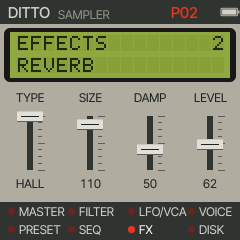
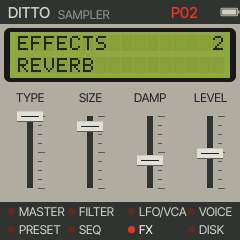
Ditto: RES for Q; the knobs move the sliders evenly (no acceleration); the value turned on the LCD, not under the sliders
Claude-Session: https://claude.ai/code/session_01TVJfaGTmFKC672U8St2zKY

diff --git a/firmware/src/golana_ui.c b/firmware/src/golana_ui.c
@@ -5,12 +5,13 @@
  * instead of ui_input, ui_leds and ui_draw; the rest of Felucca's UI code is never called).
  *
  * The screen (240 x 240): the name strip (DITTO, the preset, the battery); the LCD, 2 lines of 16 characters (the
- * module and its function, or the preset; under it what the function sets, the value just turned, or a message);
+ * module and its function, or the preset; under it the function's name, then the value of the slider turned (it stays
+ * until another function opens), or a message);
  * the four sliders (KNOB 1-4); the modules' LEDs.
  *   the modules (a button opens its first function, again the next):
- *     HOME  PERFORM      FREQ, Q, ENV, LFO RATE
+ *     HOME  PERFORM      FREQ, RES, ENV, LFO RATE
  *     GLO   MASTER       1 TEMPO/TUNE, 2 ASSIGN, 3 OUTPUT
- *     SCL   FILTER       1 FREQ Q ENV, 2 LFO KBD, 3 ADSR
+ *     SCL   FILTER       1 FREQ RES ENV, 2 LFO KBD, 3 ADSR
  *     ENV   LFO/VCA      1 VCA ADSR, 2 LFO, 3 LFO SYNC (LFO: straight to 2 LFO)
  *     EDIT  VOICE DEF    11 SAMPLE, 21 VELOCITY, 23 VIBRATO
  *     SEQ   PRESET DEF   22 SOUND B, 25 LAYER, 29 ARP, 30 ARP TIME, 31 ARP STEPS
@@ -55,13 +56,13 @@ static const char *const N_GSTYPE[] = {"REST", "NOTE", "TIE"};
 static const char *const N_GSFLAG[] = {"OFF", "ACCENT", "SLIDE", "BOTH"};
 #define NO {GV_NONE, 0, 0}
 static const gu_page_t GU_PAGES[] = {
-    {B_HOME, "PERFORM", "", {{GL_CUTOFF, "FREQ", 0}, {GL_RESO, "Q", 0}, {GL_FEGINT, "ENV", 0}, {GL_L1FREQ, "RATE", 0}}},
+    {B_HOME, "PERFORM", "", {{GL_CUTOFF, "FREQ", 0}, {GL_RESO, "RES", 0}, {GL_FEGINT, "ENV", 0}, {GL_L1FREQ, "RATE", 0}}},
     {B_GLO, "MASTER", "1 TEMPO TUNE",
      {{GV_BPM, "TEMPO", 0}, {GV_TUNE, "TUNE", 0}, {GV_CLOCK, "CLOCK", GN(N_GCLOCK)}, {GV_MIDI, "MIDI", GN(N_GMIDI)}}},
     {B_GLO, "MASTER", "2 ASSIGN",
      {{P_VOICE, "MODE", GN(N_GVOICE)}, {P_DETUNE, "DETUNE", 0}, {P_GLIDE, "PORTA", 0}, {GL_EGRESET, "RESET", 0}}},
     {B_GLO, "MASTER", "3 OUTPUT", {{P_LEVEL, "LEVEL", 0}, {P_PAN, "PAN", 0}, {P_SPRD, "SPREAD", 0}, NO}},
-    {B_SCL, "FILTER", "1 FREQ Q ENV", {{GL_CUTOFF, "FREQ", 0}, {GL_RESO, "Q", 0}, {GL_FEGINT, "ENV", 0}, NO}},
+    {B_SCL, "FILTER", "1 FREQ RES ENV", {{GL_CUTOFF, "FREQ", 0}, {GL_RESO, "RES", 0}, {GL_FEGINT, "ENV", 0}, NO}},
     {B_SCL, "FILTER", "2 LFO KBD", {{DT_LFOCUT, "LFO", 0}, {GL_KTRK, "KBD", 0}, NO, NO}},
     {B_SCL, "FILTER", "3 ADSR", {{GL_FA, "ATTACK", 0}, {GL_FD, "DECAY", 0}, {GL_FS, "SUSTAIN", 0}, {GL_FR, "RELEASE", 0}}},
     {B_ENV, "LFO/VCA", "1 VCA ADSR", {{P_ATK, "ATTACK", 0}, {P_DEC, "DECAY", 0}, {P_SUS, "SUSTAIN", 0}, {P_REL, "RELEASE", 0}}},
@@ -446,7 +447,7 @@ static void gu_draw_lcd(void)
     const gu_page_t *pg = &GU_PAGES[gu.page];
     char l1[17], l2[17], v[16], b[24];
     uint32_t inv = 0, h;
-    int hot = gu.hot >= 0 && fm1_ms - gu.hot_t < 1200u && pg->k[gu.hot & 3].id != GV_NONE;
+    int hot = gu.hot >= 0 && pg->k[gu.hot & 3].id != GV_NONE;   /* (the last slider moved, until another function) */
     if (ui.uboot) {
         char d[2] = {(char)('0' + ui.uboot % 10u), 0};
         lcd_lr(l1, "UPDATE MODE IN", d);
@@ -482,7 +483,7 @@ static void gu_draw_lcd(void)
         }
         if (gu_toast_on()) {
             lcd_lr(l2, gu.toast, "");
-        } else if (hot) {                               /* the slider just moved: its name = its value */
+        } else if (hot) {                               /* the slider last moved: its name, its value right */
             const gu_par_t *q = &pg->k[gu.hot & 3];
             gu_text(q, v);
             str_cpy(b, q->label, 12);
@@ -518,7 +519,7 @@ static void gu_draw_lcd(void)
     cv_blit(4, 28);
 }
 
-/* ---- the sliders (KNOB 1-4): the name printed above, a slot with its cap at the value, the value under it */
+/* ---- the sliders (KNOB 1-4): the name printed above, a slot with its cap at the value (the value: on the LCD) */
 #define GU_SL_Y 88
 #define GU_SL_H 110
 static void gu_draw_card(uint32_t k)
@@ -526,7 +527,7 @@ static void gu_draw_card(uint32_t k)
     const gu_page_t *pg = &GU_PAGES[gu.page];
     const gu_par_t *q = &pg->k[k];
     char b[16];
-    int32_t v = 0, lo = 0, hi = 0, top = 28, bot = 82, cy, w = 60, cx = 30;
+    int32_t v = 0, lo = 0, hi = 0, top = 28, bot = 100, cy, w = 60, cx = 30;
     uint32_t h = 0x811C9DC5u;
     int hot = gu.hot == (int8_t)k && fm1_ms - gu.hot_t < 1200u;
     if (q->id != GV_NONE) {
@@ -560,11 +561,7 @@ static void gu_draw_card(uint32_t k)
     cv_rect(cx - 13, cy - 5, 26, 1, GC_EDGE);
     cv_rect(cx - 13, cy + 5, 26, 1, GC_MIDI);
     cv_rect(cx - 9, cy, 18, 1, GC_INK);
-    {
-        int32_t tw = text_w(&AF_S, b);
-        cv_text(cx - (tw < w - 2 ? tw : w - 2) / 2, 88, &AF_S, b, hot ? GC_LED : GC_INK);
-    }
-    cv_blit(k * 60u, GU_SL_Y);
+    cv_blit(k * 60u, GU_SL_Y);                          /* (its value: on the LCD, as it turns) */
 }
 
 /* ---- the modules' LEDs: the one whose function is open lit */
@@ -692,6 +689,7 @@ static void gu_leds(void)
 static void gu_go(uint32_t page)
 {
     gu.page = (uint8_t)(page % GU_NPAGE);
+    gu.hot = -1;                                        /* (the LCD names the function again) */
 }
 
 /* a page button: its first page, or (on one of its pages) the next of them, round */
@@ -722,12 +720,11 @@ static void gu_button(uint32_t b)
     }
 }
 
+/* a knob's detents -> a slider's steps: always the same per detent, however fast it turns (a slider moves evenly);
+ * 2 a detent over the long ranges (0..127: a full travel in ~64 detents) */
 static int32_t gu_accel(int32_t s, int32_t range)
 {
-    int32_t a = s < 0 ? -s : s;
-    if (range > 32 && a >= 2)
-        s *= a >= 4 ? 4 : 2;
-    return s;
+    return range > 64 ? s * 2 : s;
 }
 
 static void gu_turn(uint32_t k, int32_t s)
@@ -825,7 +822,7 @@ static void gu_input(void)
             gu_set(&CUT, gu_get(&CUT) + gu_accel(s, 127));
             gu_text(&CUT, v);
             if (GU_PAGES[gu.page].k[1].id != GL_CUTOFF && GU_PAGES[gu.page].k[0].id != GL_CUTOFF)
-                gu_say("CUTOFF ", v);
+                gu_say("FREQ ", v);
         }
     }
     for (id = 0; id < 32u; id++) {

diff --git a/firmware/src/eng_golana.c b/firmware/src/eng_golana.c
@@ -10,7 +10,7 @@
  *               VELOCITY -> LEVEL and -> FILTER; VIBRATO (the LFO on the pitch)
  *   PRESET DEF  SOUND B (OFF or a sound) with its SEMI and TUNE; LAYER: STACK (both), VEL SW (B from a velocity on),
  *               VEL X (crossfaded by the velocity), SPLIT (B below a key), POS X (crossfaded over a range of keys)
- *   FILTER      FREQ, Q, ENV AMOUNT, KEYBOARD, LFO AMOUNT; its ADSR
+ *   FILTER      FREQ, RES (resonance: the EII's Q), ENV AMOUNT, KEYBOARD, LFO AMOUNT; its ADSR
  *   LFO / VCA   the VCA's ADSR; the LFO: WAVE, RATE (or a note value of the tempo), DELAY, KEY SYNC; LFO -> VCA
  * The slots: core.h GL_* (Golana's names) and DT_* (what they mean here). 8 voices, 5 when two sounds play (dt_nvoice). */
 
@@ -42,7 +42,7 @@ static const param_desc_t GOL_TP[P_COUNT] = {
     [DT_LVLA] = GPD("LVL A", F_PCT, 0, 127, 127),
     [DT_CHAR] = GPE("CHAR", N_FOCHAR, FC_EII),
     [DT_LVLB] = GPD("LVL B", F_PCT, 0, 127, 100),
-    [GL_RESO] = GPD("Q", F_PCT, 0, 127, 10),
+    [GL_RESO] = GPD("RES", F_PCT, 0, 127, 10),
     [GL_FEGINT] = GPD("ENV", F_BIPCT, -63, 63, 0),
     [GL_KTRK] = GPD("KBD", F_BIPCT, -63, 63, 32),
     [GL_FA] = GPD("ATK", F_TIME, 0, 127, 0),

diff --git a/docs/MANUAL.md b/docs/MANUAL.md
@@ -16,17 +16,17 @@ and the only effects are a delay and a reverb.
 
 The screen is the Emulator II's panel: a dark strip (DITTO, the preset in red, the battery), a two-line LCD of 16
 characters in 5 × 7 dots, four sliders (KNOB 1–4), and the modules' LEDs. The LCD's first line names the module and
-its function's number (`FILTER 1`), the second the function (`FREQ Q ENV`); a slider moved shows its value there for a
-moment (`FREQ 64`), and messages appear there too. On HOME the first line is the preset (`P01 STRINGS`), the second
+its function's number (`FILTER 1`), the second the function (`FREQ RES ENV`); a slider turned shows its name and value there
+(`FREQ 64`) until another function opens; the sliders themselves carry no numbers. Messages appear there too. On HOME the first line is the preset (`P01 STRINGS`), the second
 the tempo and the arpeggiator.
 
 | Button | Module | Function | Sliders (KNOB 1 2 3 4) |
 | --- | --- | --- | --- |
-| HOME | PERFORM | | FREQ, Q, ENV, LFO RATE |
+| HOME | PERFORM | | FREQ, RES, ENV, LFO RATE |
 | GLO | MASTER | 1 TEMPO TUNE | TEMPO, TUNE, CLOCK (INT, USB, TRS), MIDI (ALL, CH 1) |
 | | | 2 ASSIGN | MODE (POLY, MONO, LEGATO, UNISON), DETUNE, PORTA, RESET (both envelopes from 0 on a retrigger) |
 | | | 3 OUTPUT | LEVEL, PAN, SPREAD |
-| SCL | FILTER | 1 FREQ Q ENV | FREQ, Q, ENV (the filter ADSR's amount, ±) |
+| SCL | FILTER | 1 FREQ RES ENV | FREQ, RES (the resonance: the EII's Q), ENV (the filter ADSR's amount, ±) |
 | | | 2 LFO KBD | LFO (the LFO on the cutoff), KBD (key tracking, ±; +63 follows the keys) |
 | | | 3 ADSR | ATTACK, DECAY, SUSTAIN, RELEASE |
 | ENV | LFO/VCA | 1 VCA ADSR | ATTACK, DECAY, SUSTAIN, RELEASE (a one-shot sound ends with its sample, the key held or not) |

diff --git a/README.md b/README.md
@@ -33,9 +33,9 @@ arpeggiator and a small step sequencer. It is a fork of [Golana](https://github.
 
 | Button | Module | Functions (press again for the next) |
 | --- | --- | --- |
-| **HOME** | PERFORM | FREQ, Q, ENV, LFO RATE |
+| **HOME** | PERFORM | FREQ, RES, ENV, LFO RATE |
 | **GLO** | MASTER | 1 TEMPO TUNE · 2 ASSIGN (POLY, MONO, LEGATO, UNISON; DETUNE, PORTA) · 3 OUTPUT |
-| **SCL** | FILTER | 1 FREQ Q ENV · 2 LFO KBD · 3 ADSR (the Emulator II's SSM 24 dB low-pass) |
+| **SCL** | FILTER | 1 FREQ RES ENV · 2 LFO KBD · 3 ADSR (the Emulator II's SSM 24 dB low-pass) |
 | **ENV** / **LFO** | LFO/VCA | 1 VCA ADSR · 2 LFO (WAVE, RATE, DELAY, VCA) · 3 LFO SYNC (LFO opens 2 directly) |
 | **EDIT** | VOICE DEF | 11 SAMPLE (SOUND, START, LOOP, CHARACTER: EII 8-bit μ-law or CLEAN) · 21 VELOCITY (to level, to filter) · 23 VIBRATO |
 | **SEQ** | PRESET DEF | 22 SOUND B (SEMI, TUNE, LEVEL) · 25 LAYER (STACK, VEL SW, VEL X, SPLIT, POS X) · 29–31 the arpeggiator |
